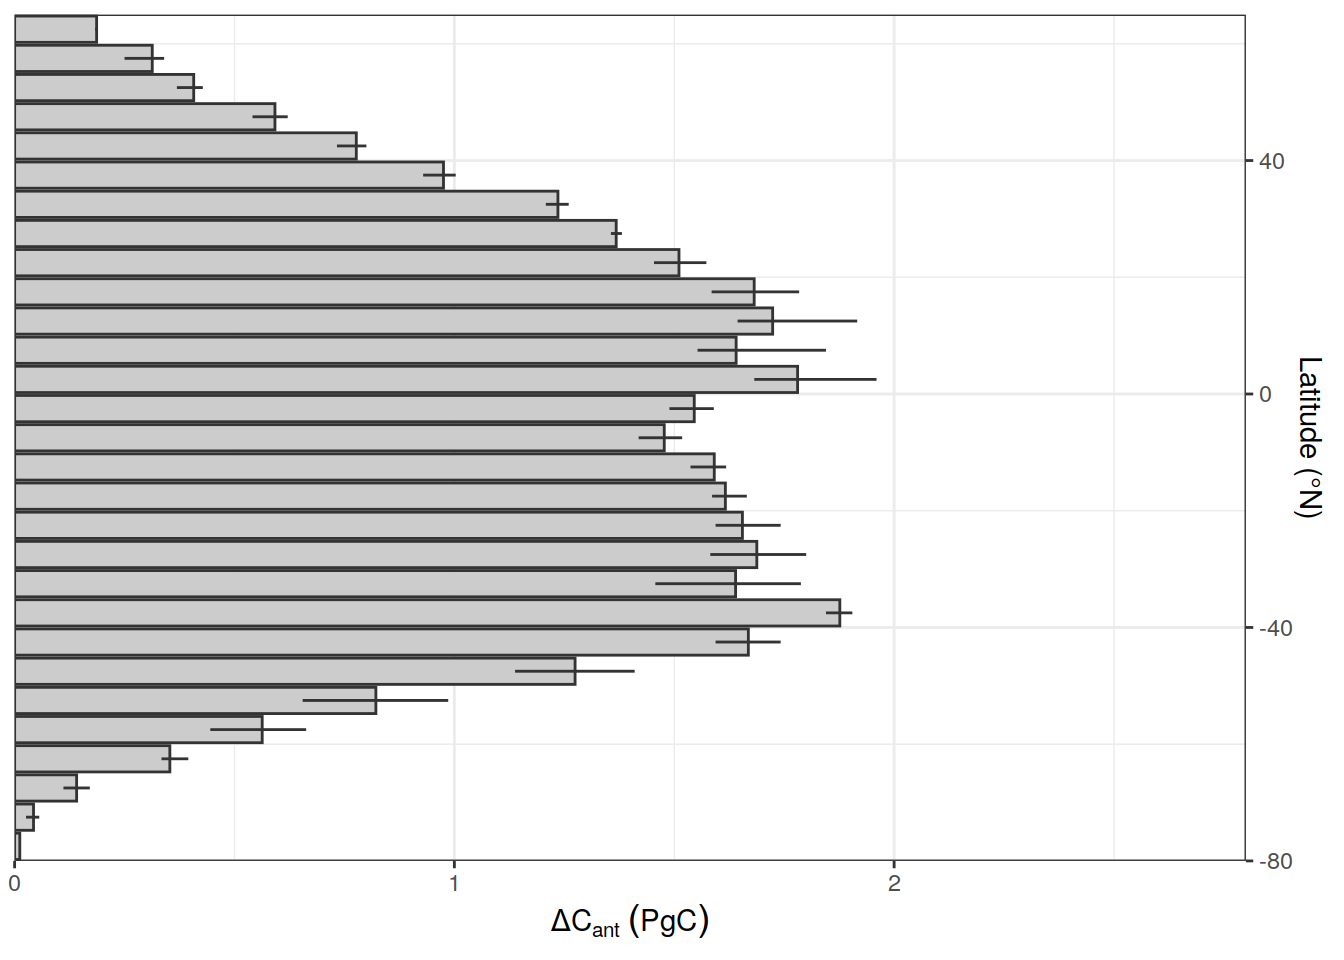
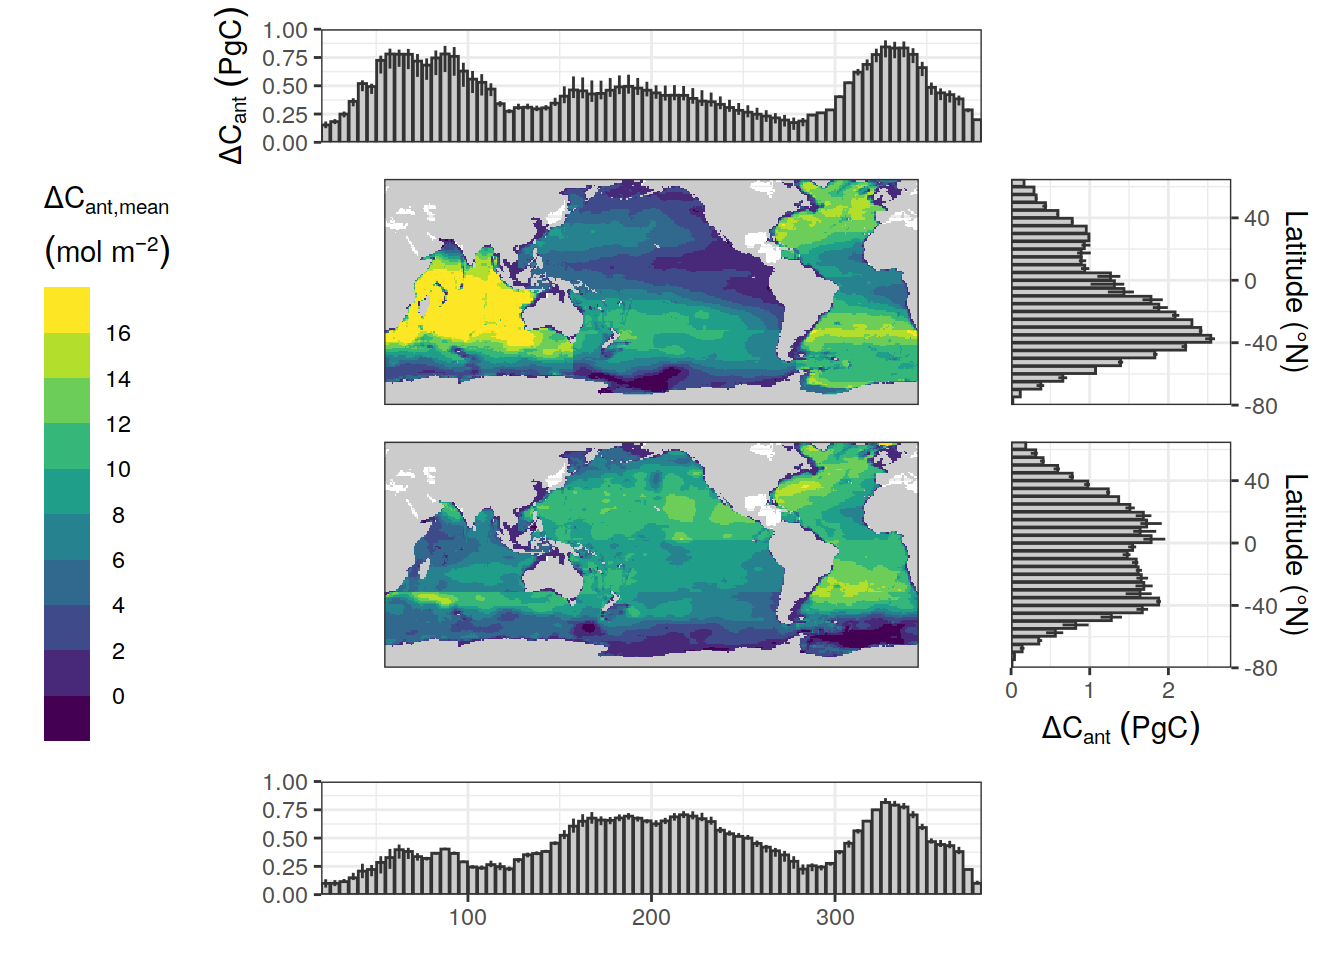
Build site.

diff --git a/docs/classic_column_inventories.html b/docs/classic_column_inventories.html
@@ -667,16 +667,16 @@ This reproducible <a href="http://rmarkdown.rstudio.com">R Markdown</a> analysis
 <div class="panel panel-default">
 <div class="panel-heading">
 <p class="panel-title">
-<a data-toggle="collapse" data-parent="#workflowr-checks" href="#strongRepositoryversionstrongahrefhttpsgithubcomjensdanielmuelleremlrobsanalysistreea7bcc04126bc53adffe812fa791b7293e547fad3targetblanka7bcc04a"> <span class="glyphicon glyphicon-ok text-success" aria-hidden="true"></span> <strong>Repository version:</strong> <a href="https://github.com/jens-daniel-mueller/emlr_obs_analysis/tree/a7bcc04126bc53adffe812fa791b7293e547fad3" target="_blank">a7bcc04</a> </a>
+<a data-toggle="collapse" data-parent="#workflowr-checks" href="#strongRepositoryversionstrongahrefhttpsgithubcomjensdanielmuelleremlrobsanalysistree78f1dbc9eed6df8236944f4cf72d21d8526bab3ctargetblank78f1dbca"> <span class="glyphicon glyphicon-ok text-success" aria-hidden="true"></span> <strong>Repository version:</strong> <a href="https://github.com/jens-daniel-mueller/emlr_obs_analysis/tree/78f1dbc9eed6df8236944f4cf72d21d8526bab3c" target="_blank">78f1dbc</a> </a>
 </p>
 </div>
[2 lines of base64/hex data omitted]
 <div class="panel-body">
 <p>
 Great! You are using Git for version control. Tracking code development and connecting the code version to the results is critical for reproducibility.
 </p>
 <p>
-The results in this page were generated with repository version <a href="https://github.com/jens-daniel-mueller/emlr_obs_analysis/tree/a7bcc04126bc53adffe812fa791b7293e547fad3" target="_blank">a7bcc04</a>. See the <em>Past versions</em> tab to see a history of the changes made to the R Markdown and HTML files.
+The results in this page were generated with repository version <a href="https://github.com/jens-daniel-mueller/emlr_obs_analysis/tree/78f1dbc9eed6df8236944f4cf72d21d8526bab3c" target="_blank">78f1dbc</a>. See the <em>Past versions</em> tab to see a history of the changes made to the R Markdown and HTML files.
 </p>
 <p>
 Note that you need to be careful to ensure that all relevant files for the analysis have been committed to Git prior to generating the results (you can use <code>wflow_publish</code> or <code>wflow_git_commit</code>). workflowr only checks the R Markdown file, but you know if there are other scripts or data files that it depends on. Below is the status of the Git repository when the results were generated:
@@ -729,6 +729,40 @@ Message
 </tr>
 </thead>
 <tbody>
+<tr>
+<td>
+Rmd
+</td>
+<td>
+<a href="https://github.com/jens-daniel-mueller/emlr_obs_analysis/blob/78f1dbc9eed6df8236944f4cf72d21d8526bab3c/analysis/classic_column_inventories.Rmd" target="_blank">78f1dbc</a>
+</td>
+<td>
+jens-daniel-mueller
+</td>
+<td>
+2021-10-25
+</td>
+<td>
+revised composite plot
+</td>
+</tr>
+<tr>
+<td>
+html
+</td>
+<td>
+<a href="https://rawcdn.githack.com/jens-daniel-mueller/emlr_obs_analysis/7ae4bdd57776e24277c8340b144442dba0452423/docs/classic_column_inventories.html" target="_blank">7ae4bdd</a>
+</td>
+<td>
+jens-daniel-mueller
+</td>
+<td>
+2021-10-25
+</td>
+<td>
+Build site.
+</td>
+</tr>
 <tr>
 <td>
 Rmd
@@ -3691,6 +3725,17 @@ Date
 <tbody>
 <tr>
 <td>
+<a href="https://github.com/jens-daniel-mueller/emlr_obs_analysis/blob/7ae4bdd57776e24277c8340b144442dba0452423/docs/figure/classic_column_inventories.Rmd/lon_grid_budget_ensemble-1.png" target="_blank">7ae4bdd</a>
+</td>
+<td>
+jens-daniel-mueller
+</td>
+<td>
+2021-10-25
+</td>
+</tr>
+<tr>
+<td>
 <a href="https://github.com/jens-daniel-mueller/emlr_obs_analysis/blob/a8576a813fe8a4a31ef2fe9ae337cad3f37fbe83/docs/figure/classic_column_inventories.Rmd/lon_grid_budget_ensemble-1.png" target="_blank">a8576a8</a>
 </td>
 <td>
@@ -4532,7 +4577,7 @@ p_lon_94 &lt;- dcant_lon_grid_ensemble %&gt;%
   scale_x_continuous(name = &quot;Longitude (°E)&quot;, limits = c(20,380), expand = c(0,0)) +
   theme(axis.title.x = element_blank(),
         axis.text.x = element_blank(),
-        axis.ticks.x = element_blank()) 
+        axis.ticks.x = element_blank())
   # coord_fixed(ratio = 100)
 
 p_lon_04 &lt;- dcant_lon_grid_ensemble %&gt;%
@@ -4550,7 +4595,8 @@ p_lon_04 &lt;- dcant_lon_grid_ensemble %&gt;%
   width = 0) +
   scale_y_continuous(limits = c(0,1), expand = c(0,0),
                      name = expression(Delta*C[ant]~(PgC))) +
-  scale_x_continuous(name = &quot;Longitude (°E)&quot;, limits = c(20,380), expand = c(0,0)) 
+  scale_x_continuous(name = &quot;Longitude (°E)&quot;, limits = c(20,380), expand = c(0,0)) +
+  theme(title = element_blank())
   # coord_fixed(ratio = 100)
 
 p_lat_94 &lt;- dcant_lat_grid_ensemble %&gt;%
@@ -4583,6 +4629,7 @@ p_lat_94 &lt;- dcant_lat_grid_ensemble %&gt;%
     axis.text.x = element_blank(),
     axis.ticks.x = element_blank()
   )
+  # coord_fixed(ratio = 5e-2)
 
 p_lat_04 &lt;- dcant_lat_grid_ensemble %&gt;%
   filter(data_source == &quot;obs&quot;,
@@ -4606,13 +4653,55 @@ p_lat_04 &lt;- dcant_lat_grid_ensemble %&gt;%
                      expand = c(0, 0),
                      position = &quot;right&quot;)
 
-p_lat_04</code></pre>
-<p><img src="figure/classic_column_inventories.Rmd/composed_figure-1.png" width="672" style="display: block; margin: auto;" /></p>
-<pre class="r"><code>((p_lon_94 | plot_spacer()) / (p_map_94 | p_lat_94)) /
-  ((p_map_04 | p_lat_04) / (p_lon_04 + plot_spacer())) +
-  plot_layout(guides=&quot;collect&quot;) &amp;
+
+p_lon_94 + plot_spacer() + p_map_94 + p_lat_94 + 
+  p_map_04 + p_lat_04 + p_lon_04 + plot_spacer() +
+  plot_layout(ncol = 2,
+              guides = &quot;collect&quot;,
+              heights = c(1,2,2,1),
+              widths = c(3,1)) &amp;
   theme(legend.position = &quot;left&quot;)</code></pre>
-<p><img src="figure/classic_column_inventories.Rmd/composed_figure-2.png" width="672" style="display: block; margin: auto;" /></p>
+<p><img src="figure/classic_column_inventories.Rmd/composed_figure-1.png" width="672" style="display: block; margin: auto;" /></p>
+<p>
+<button type="button" class="btn btn-default btn-xs btn-workflowr btn-workflowr-fig" data-toggle="collapse" data-target="#fig-composed_figure-1">
+Past versions of composed_figure-1.png
+</button>
+</p>
+<div id="fig-composed_figure-1" class="collapse">
+<div class="table-responsive">
+<table class="table table-condensed table-hover">
+<thead>
+<tr>
+<th>
+Version
+</th>
+<th>
+Author
+</th>
+<th>
+Date
+</th>
+</tr>
+</thead>
+<tbody>
+<tr>
+<td>
+<a href="https://github.com/jens-daniel-mueller/emlr_obs_analysis/blob/7ae4bdd57776e24277c8340b144442dba0452423/docs/figure/classic_column_inventories.Rmd/composed_figure-1.png" target="_blank">7ae4bdd</a>
+</td>
+<td>
+jens-daniel-mueller
+</td>
+<td>
+2021-10-25
+</td>
+</tr>
+</tbody>
+</table>
+</div>
+</div>
+<pre class="r"><code>ggsave(&quot;output/publication/Fig_column_inventories.png&quot;,
+       height = 10,
+       width = 11)</code></pre>
 </div>
 </div>
 <div id="cases-vs-ensemble" class="section level1" number="4">
